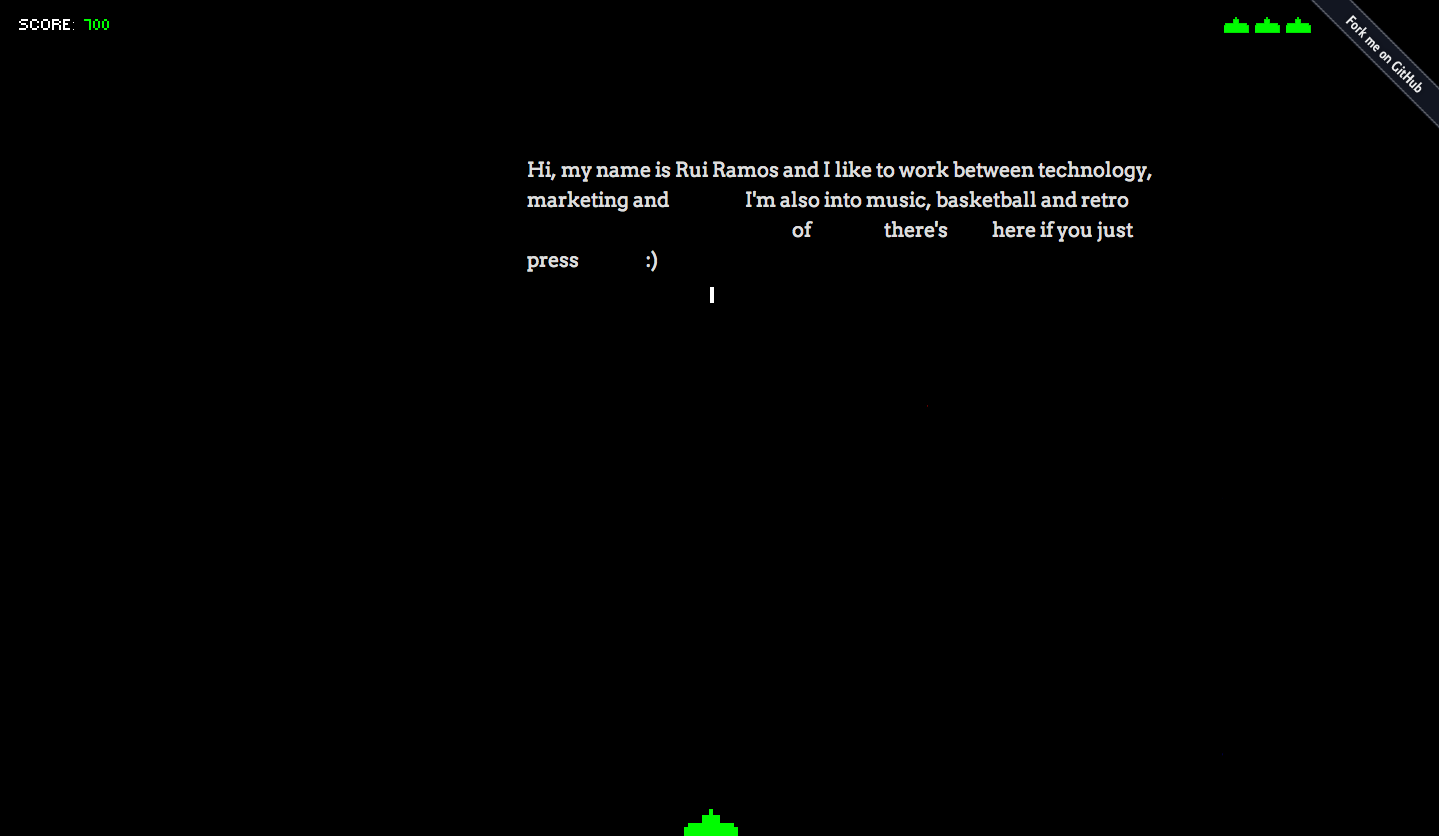
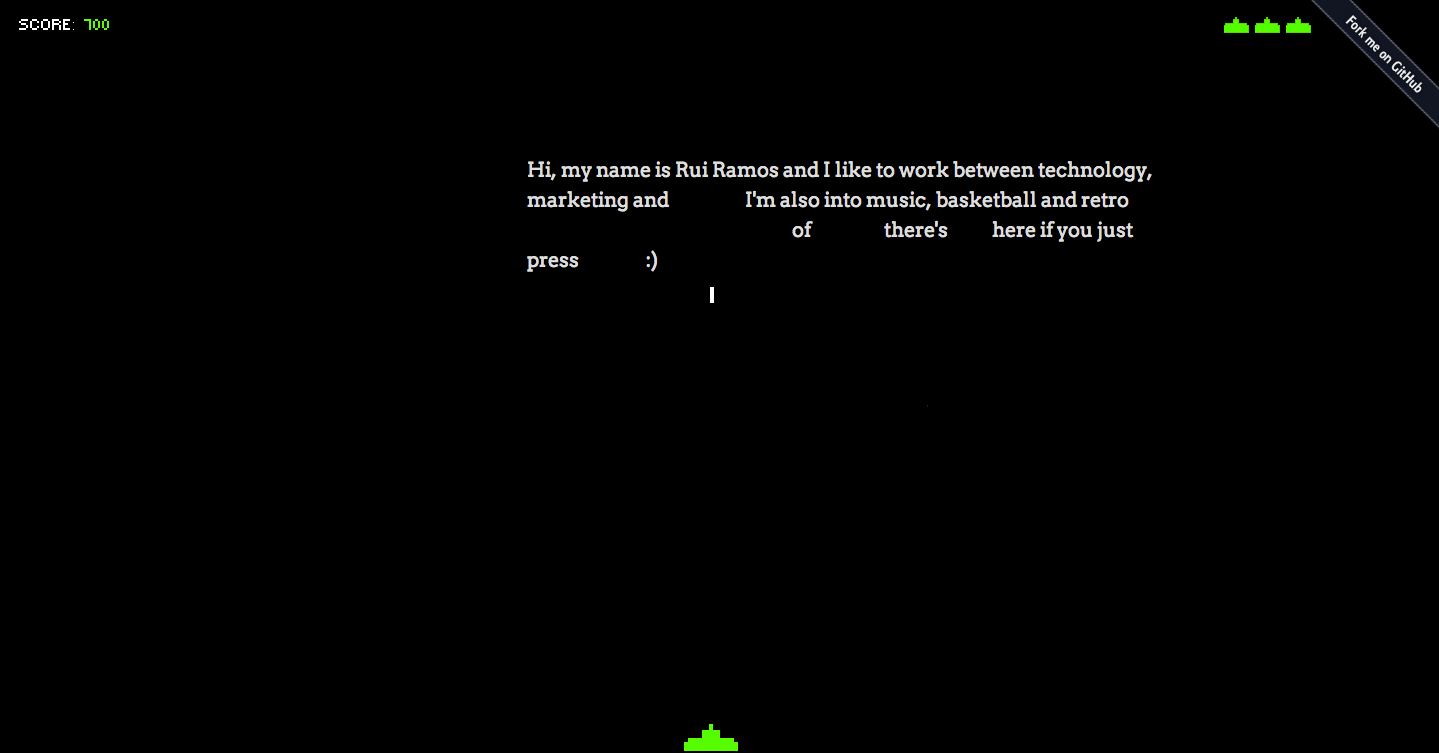
image sizes

diff --git a/index.html b/index.html
@@ -11,7 +11,7 @@
 <meta property="og:image" content="http://ruiramos.com/images/game-sshot-large.png"/>
 <meta property="og:image:type" content="image/png">
 <meta property="og:image:width" content="1439">
-<meta property="og:image:height" content="836">
+<meta property="og:image:height" content="753">
 
 <meta property="og:url" content="http://ruiramos.com/"/>
 <meta property="og:title" content="Text Invaders @ ruiramos.com"/>
